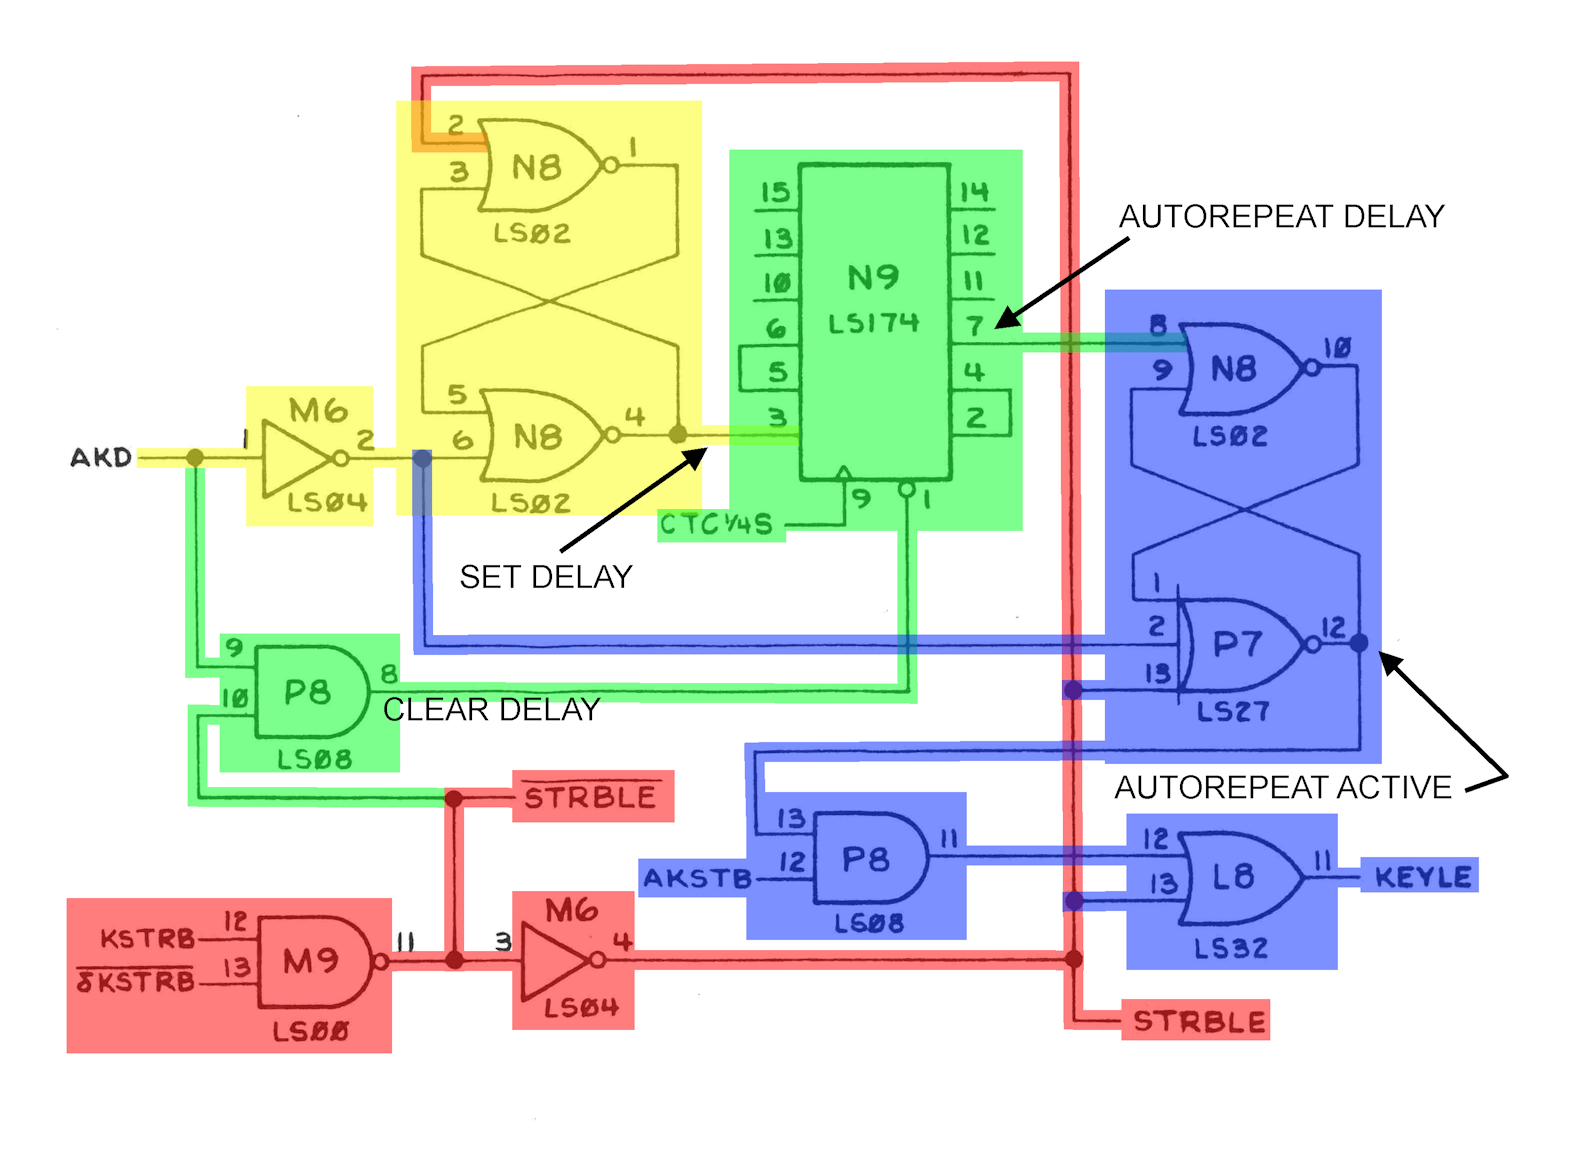
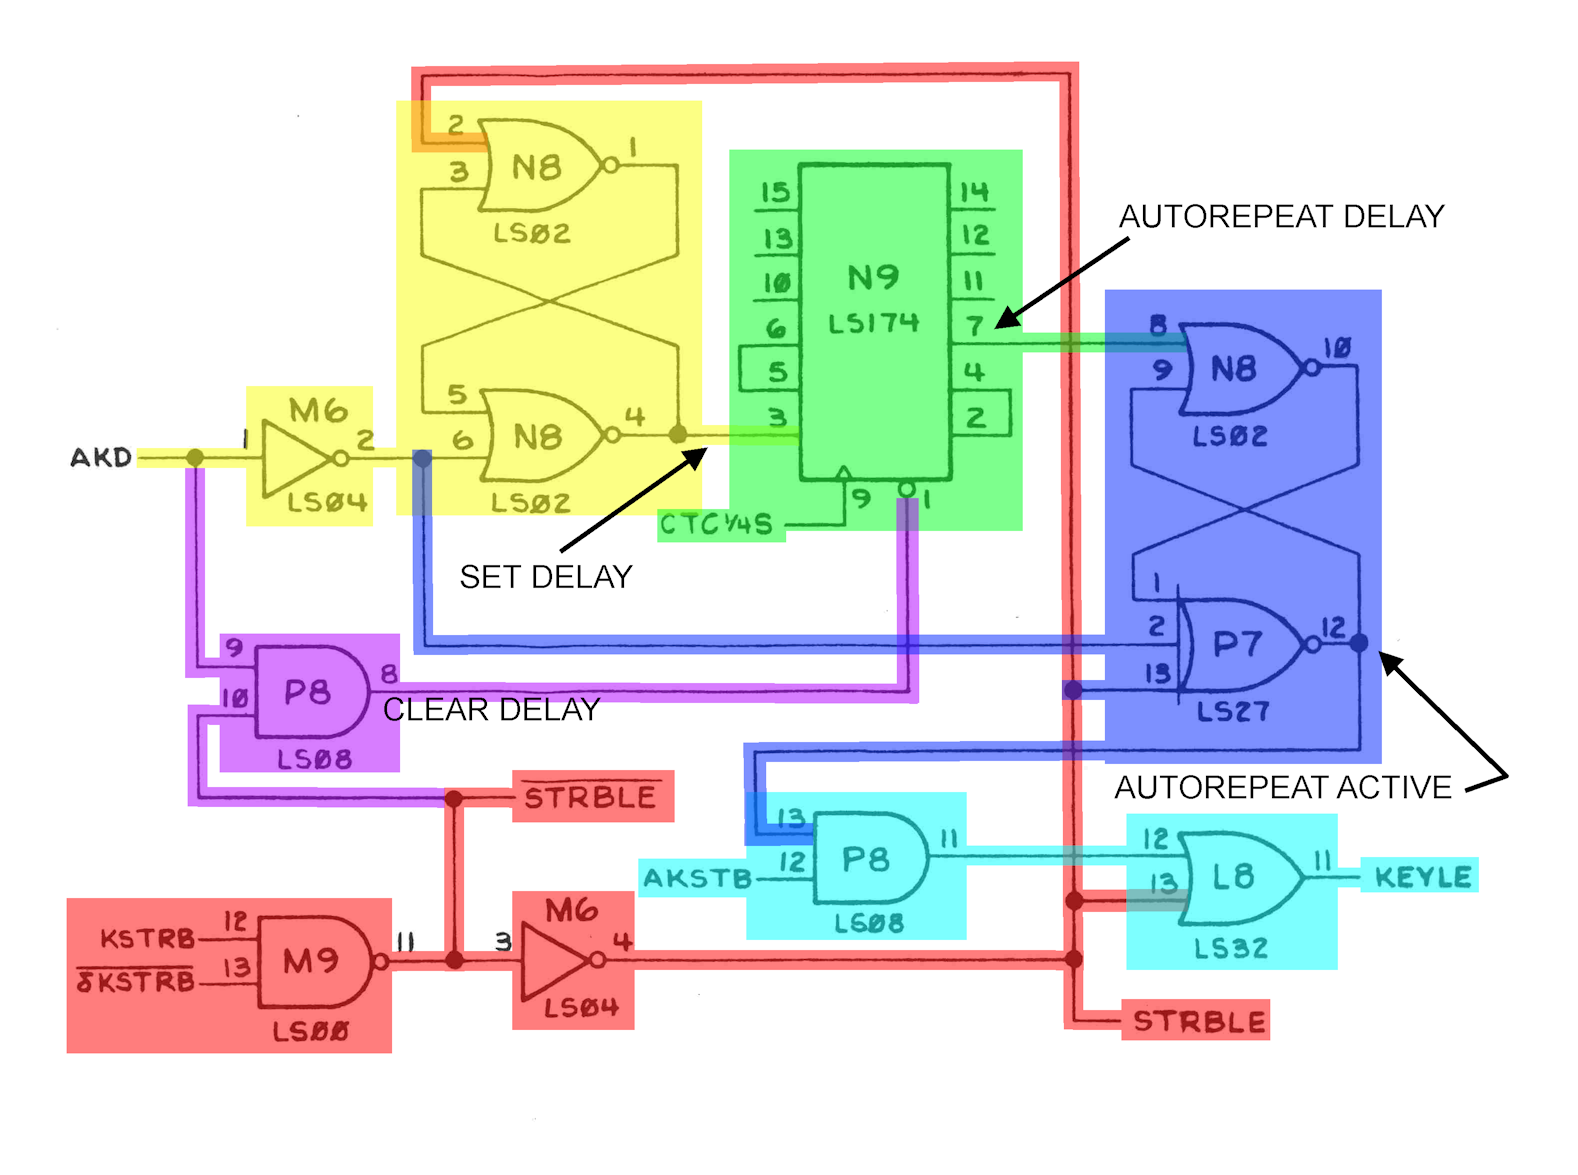
WIP

Changed region(s): [[0.4037, 0.674, 0.9626, 0.8272], [0.0932, 0.3983, 0.59, 0.7047]]

diff --git a/Documentation/Understanding_IOU_MMU/iou_keyboard_subsystem.md b/Documentation/Understanding_IOU_MMU/iou_keyboard_subsystem.md
@@ -1,43 +1,97 @@
 # The Keyboard Sybsystem
 
 ## Overview
-The keyboard subsystem's task is to generate the value of the KEY soft switch (read access to $C000 - $C00F). This soft switch indicates whether a key as been pressed since the last time it has been reset. The keyboard subsystem also handles the auto-repeat feature that will set KEY at a frequency of 15 hertz while a key is pressed. The logic-gates schematics seem a bit complex, but it's relatively easy to understand when each piece is examined separately:
+The keyboard subsystem's task is to generate the value of the KEY soft switch (read access to $C000 - $C00F). This soft switch indicates whether a key as been pressed since the last time it has been reset. The keyboard subsystem also handles the auto-repeat feature that will set KEY at a frequency of 15 hertz while a key is pressed (Note that KEY still need to be reset with $C010 between each auto-repeat cycle).
 
-*** FIXME image
-<a align="center" href="/Schematics/IOU_2.jpg">
-    <img src="/resources/KEYBOARD_GATE_SCH.png" style="width: 820px"/>
-</a>
-<p><i>IOU_2, @D-1</i></p>
+## Prerequisite Signals
 
-## KSTRB and AKD
+### KSTRB and AKD
 
 Two input pins on the IOU indicates the state of keypresses on the keyboard:
  - IKSTRB is an input that momentarily goes HIGH when an actual key is pressed.
  - IAKD is an input that goes HIGH when an actual key is pressed and remains HIGH for as long as a key remains pressed
 
-These two signals, IKSTRB and IAKD, are delayed by two P_PHI_2 cycles, and these two delayed signals are called KSTRB and AKD. See "Understanding the Apple IIe" by Jim Sather, page 7-3 paragraph 4
+These two signals, IKSTRB and IAKD, are delayed by two P_PHI_2 cycles, and these two delayed signals are called KSTRB and AKD.<br/>
+See "Understanding the Apple IIe" by Jim Sather, page 7-3 paragraph 4
 
 <a align="center" href="/Schematics/IOU_2.jpg">
     <img src="/resources/IOU_IDelay.png" style="width: 240px"/>
 </a>
 <p><i>IOU_2, @C-3</i></p>
 
+### AKSTB, and δKSTRB_N
 
-## δKSTRB_N and STRBLE
+<a align="center" href="/Schematics/IOU_1.jpg">
+    <img src="/resources/KeyboardStrobe.png" style="width: 240px"/>
+</a>
+<p><i>IOU_1, @C-3</i></p>
 
-δKSTRB_N is KSTRB delayed by one PHI_0 cycle. The red part in the schematics (FIXME) acts as an edge detector and STRBLE_N will be LOW for one PHI_0 cycle when KSTRB transitions from LOW to HIGH:
+AKSTB is the Autorepeat Key STroBe. Components M8 and B2 above acts like a risind edge detector and makes AKSTB pulses high for one PHI_0 cycle when PAKST rises. This the ~15 characters per second 'clock' for the auto-repeat.
 
-<img src="/resources/STRBLE_Trace.png" style="width: 320px"/>
+<img src="/resources/AKSTB_Trace.png" style="width: 820px"/>
 
-## AKSTB
-
-FIXME AKSTB is the Autorepeat Key STroBe
-
-<img src="/resources/AKSTB_Trace.png" style="width: 320px"/>
+δKSTRB_N is KSTRB delayed by one PHI_0 cycle. Used to generate STRBLE [See below](#STRBLE)
 
 ### CTC¼S
 
-## KEYLE
+FIXME
 
+## Keyboard Signals
 
-## CLRKEY_N and KEY
+The logic-gates schematics seem a bit complex, but it's relatively easy to understand when each piece is examined separately:
+
+<a align="center" href="/Schematics/IOU_2.jpg">
+    <img src="/resources/KEYBOARD_GATE_SCH.png" style="width: 820px"/>
+</a>
+<p><i>IOU_2, @D-1</i></p>
+
+### STRBLE (red part)
+
+The red part in the schematics above acts as an edge detector and STRBLE_N will be LOW for one 14M cycle when KSTRB transitions from LOW to HIGH:
+
+<img src="/resources/STRBLE_Trace.png" style="width: 820px"/>
+
+The end effect is that STRBLE_N will pulse LOW (or HIGH in the case STRBLE) for 14M after a key is pressed.
+
+### Clear Delay (purple part)
+
+Clear Delay will reset the AutoRepeat Delay (The delay after a key is pressed and held down before the AutoRepeat activates, 534 ms to 801 ms) whenever it drops LOW. It happens whenver no key is pressed (AKD is LOW), or when a key is held down and another key is pressed (For example, holding down 'A' and pressing 'B' while 'A' is repeating will write a single 'B' and stop).
+
+### Set Delay (yellow part)
+
+The two NOR gates in yellow is a SR flip-flop, with its /Q (inverted stored value) output connected to the green N9 component. Its SET input is the inverted AKD (HIGH when no key is pressed), and its RESET input is STRBLE.
+
+The end effect this behaviour:
+ - If no key is pressed output N8-4 will be LOW (/Q is the inverse of the flip-flop value)
+ - When a key is pressed STRBLE will pulse HIGH and reset the flip-flop and the output N8-4 will be HIGH.
+
+### AutoRepeat Delay (green part)
+
+The component N9 essentially acts as a 3-bit shifter, clocked by CTC¼S that delays the output of the yellow flip-flop.
+
+The end effect at pin N9-7 (AutoRepeat Delay) will be:
+ - Remains LOW as long as no key is pressed.
+ - When a key is held down, the yellow flip-flip will push a HIGH in the green 3-bit shifter. This shifter will delay this HIGH for 534 ms to 801 ms (the auto-repeat delay), and the output a HIGH N9-7.
+
+ > **Note:** When all keys are released, the LOW propagates with the same delay to N9-7. The immediate deactivation of the auto-repeat is done in the blue part below.
+
+### AutoRepeat Active (blue part)
+
+AutoRepeat Active is connected to the /Q output of the flip-flop which is the inverse of the value of the flip-flop. The RESET pin of the blue flip-flop is connected to the AutoRepeat Delay; this means that when AutoRepeat Delay is HIGH, P7-12 also will be HIGH. Two signals are connected to the SET pin: the inverse of AKD, and STRBLE. This means that P7-12 will be LOW whenever all keys are released or whenever a key is pressed.
+
+The end effect at pin P7-12 (AutoRepeat Active) will be:
+ - LOW when no key is pressed.
+ - Forced LOW whenever a key is pressed.
+ - When a key is pressed and held down, and after the AutoRepeat Delay has passed, will become HIGH.
+ - If AutoRepeat Active is HIGH and another key is pressed, AutoRepeat Active will becomne LOW until another AutoRepeat Delay has passed (assuming no key is released).
+
+### KEYLE (cyan part)
+
+KEYLE will be:
+ - Pulsed HIGH when a key is pressed.
+ - Cycled at 15 hertz (the auto-repeat frequency) if AutoRepeat Active is HIGH
+
+### CLRKEY_N and KEY
+
+*** FIXME image
+

diff --git a/Documentation/Building_an_Adapter.md b/Documentation/Building_an_Adapter.md
@@ -3,7 +3,7 @@ Use a 5v CPLD. In doubt, use the Altera EPM7128STC. The MMU don't need anything 
 
 # CPLD / FPGA Selection
 ## Device voltage
-The Apple IIe being a 5v computer, using a 5v CPLD/FPGA will obviously be easiest. Unfortunately, almost all 5v CPLDs/FPGAs have gone out of production. Modern CPLDs/FPGAs are all 3.3v and will need the Apple's 5v to be level-shifted down to 3.3v. This is of course more complex, and some details about this can be found [below](# Using 3.3v)
+The Apple IIe being a 5v computer, using a 5v CPLD/FPGA will obviously be easiest. Unfortunately, almost all 5v CPLDs/FPGAs have gone out of production. Modern CPLDs/FPGAs are all 3.3v and will need the Apple's 5v to be level-shifted down to 3.3v. This is of course more complex, and some details about this can be found [below](#using-3.3v)
 
 # Number of GPIOs
 The device needs to have a minimum number of GPIOs depending on the ASIC:
